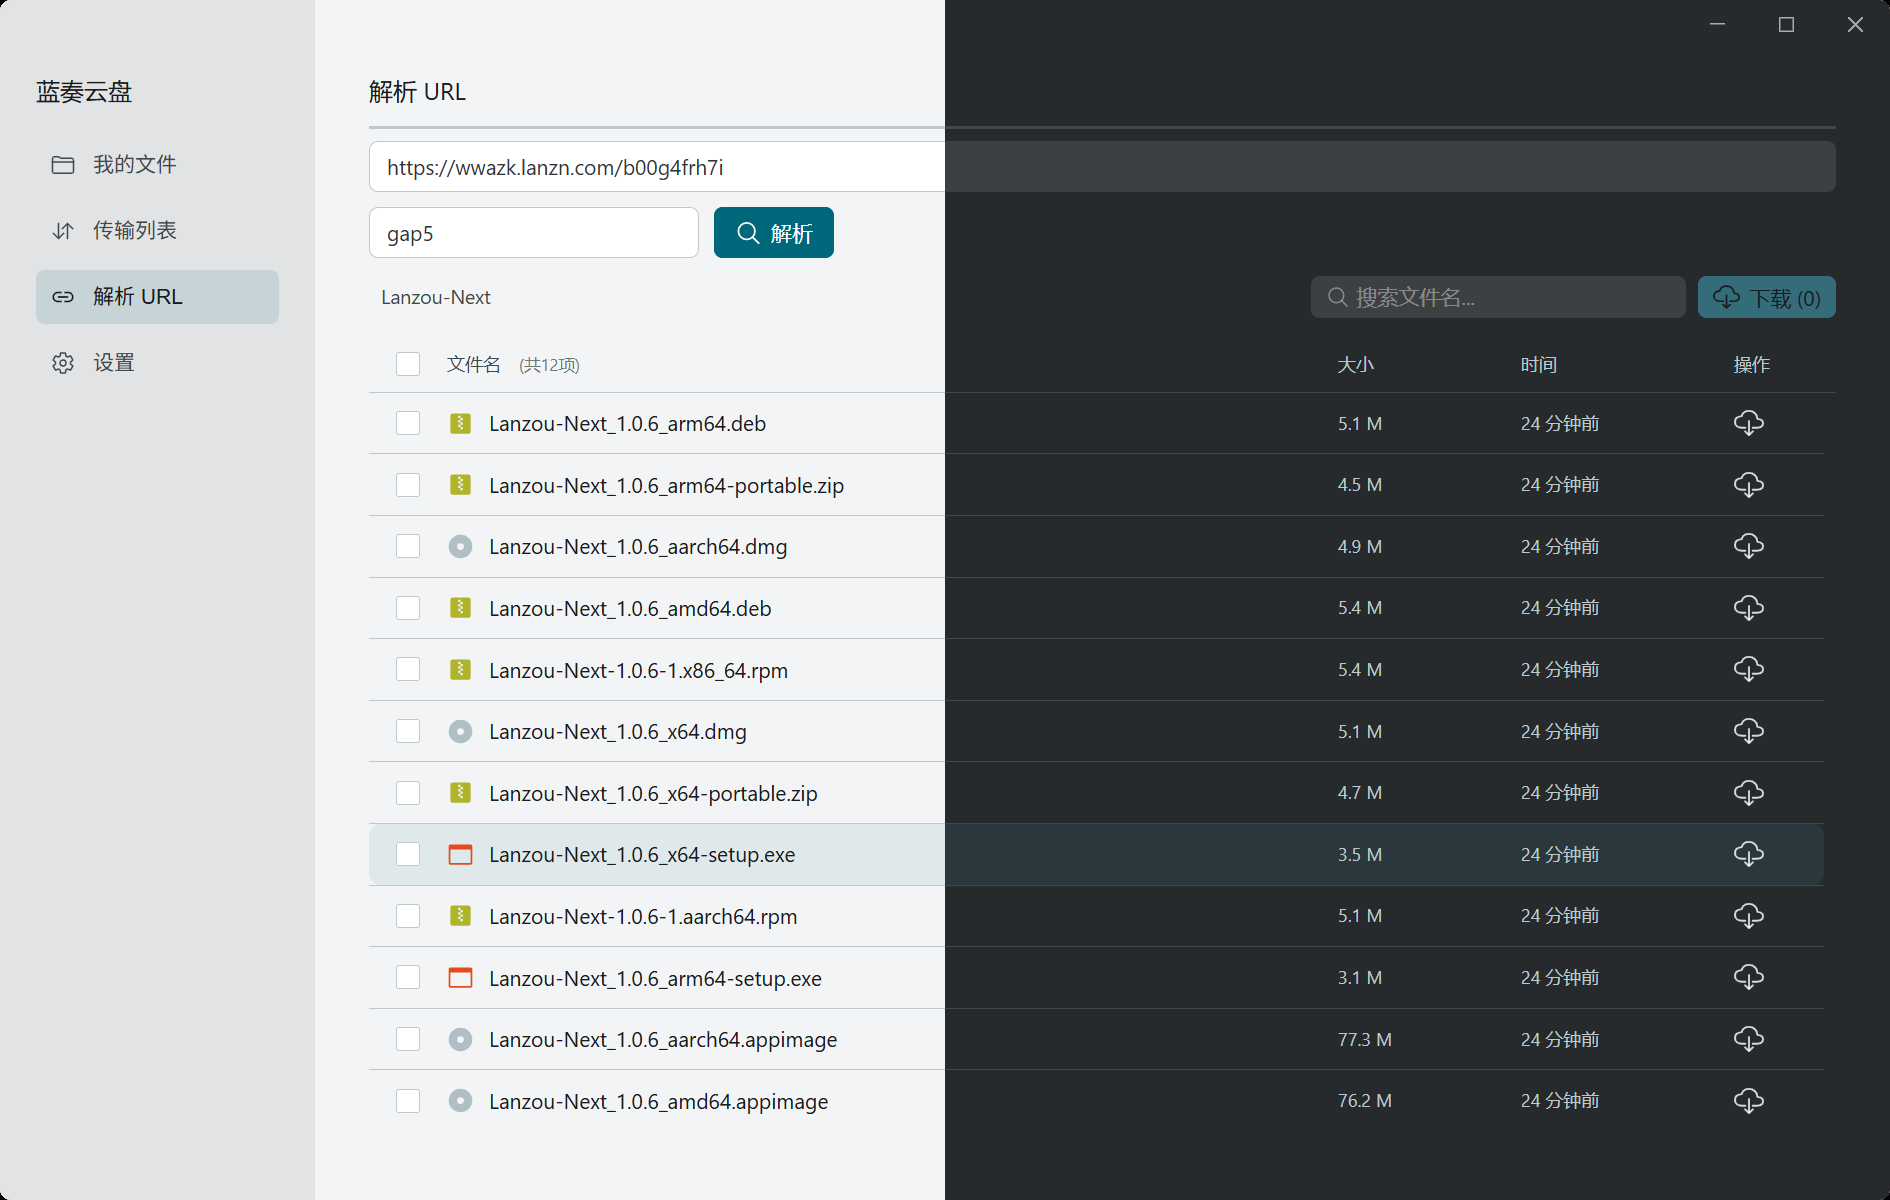
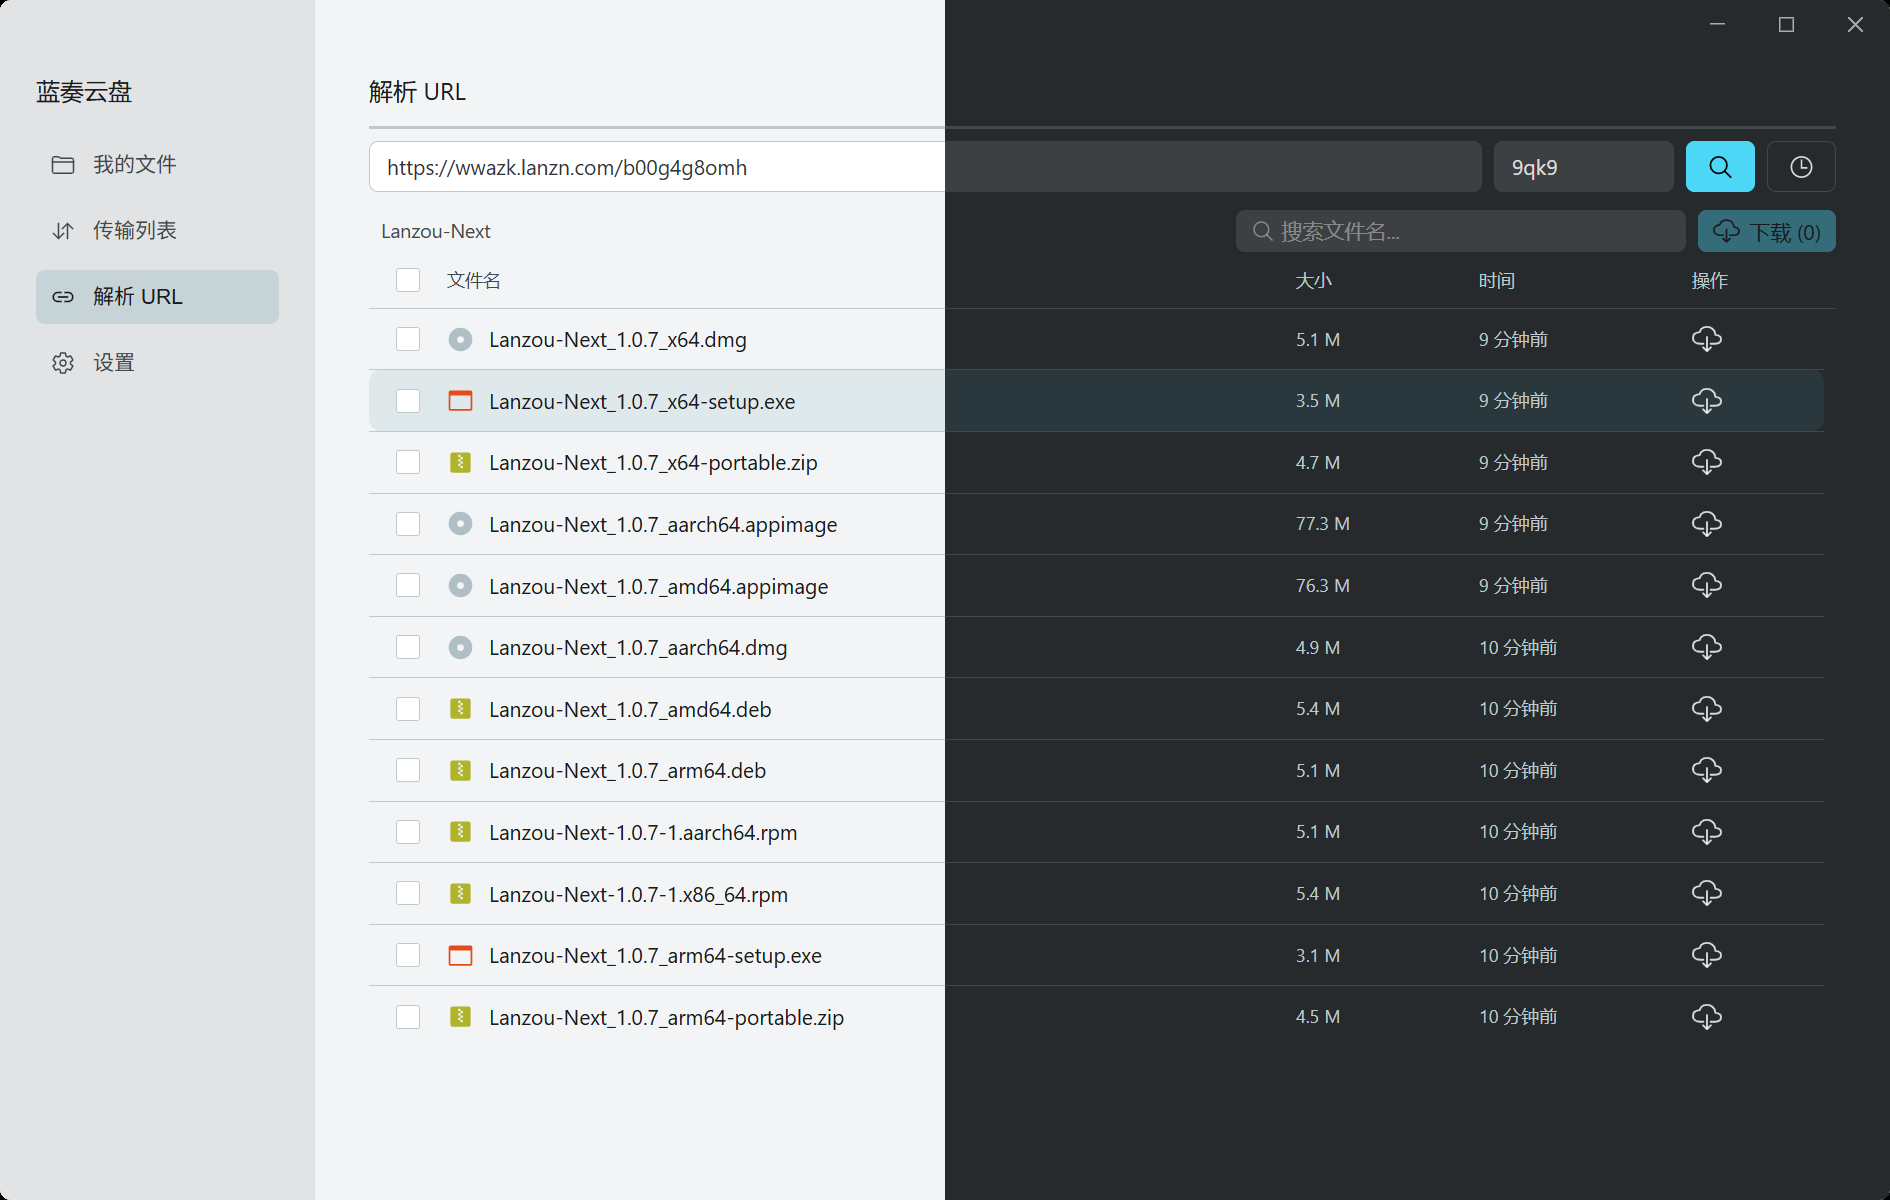
release: v1.0.8

diff --git a/vite.config.ts b/vite.config.ts
@@ -21,6 +21,7 @@ export default defineConfig(async () => ({
 
   clearScreen: false,
   build: {
+    chunkSizeWarningLimit: 800,
     rollupOptions: {
       output: {
         manualChunks: {

diff --git a/README.md b/README.md
@@ -20,11 +20,11 @@
 ## ✨ 功能特性
 
 - **文件管理**：面包屑导航、搜索、排序（名称/大小/时间/下载次数）、重命名、移动、删除、文件描述、设置访问密码
-- **上传**：拖拽上传、文件/文件夹批量上传、大文件自动分片上传、上传前超限预检、上传流量警戒、可配置并发数与分片大小
-- **下载**：文件/文件夹批量下载、断点续传、分片合并下载、可配置并发数与下载目录
-- **分享**：一键生成分享链接与二维码、解析分享链接、提取码自动识别与填充、下载分享文件
 - **文件夹操作**：跨目录模拟移动（递归搬迁）、设置访问密码
 - **回收站**：查看、批量恢复、批量彻底删除
+- **上传**：拖拽上传、文件/文件夹批量上传、大文件自动分片上传、上传前超限预检、上传流量警戒、可配置并发数与分片大小
+- **下载**：文件/文件夹批量下载、断点续传、分片合并下载、可配置并发数与下载目录
+- **分享**：查看分享链接与二维码、解析分享链接并查看和下载分享文件、检测剪贴板分享链接、保留解析记录
 - **账号管理**：账号密码登录、Cookie 自动持久化
 - **个性化**：预设配色方案、浅色/深色/跟随系统主题
 - **窗口与性能**：关闭时最小化到托盘、轻量模式（托盘时挂起渲染进程降低内存）

diff --git a/CHANGELOG.md b/CHANGELOG.md
@@ -1,5 +1,22 @@
 # 更新日志
 
+## 1.0.8
+
+### 新增
+
+- 添加剪贴板分享链接检测功能
+- 添加解析记录功能
+- 添加上传/下载/解析记录上限配置
+
+### 改进
+
+- 对话框改为从触发点弹出
+- 优化设置访问密码对话框
+
+### 修复
+
+- 修复恢复默认配置后日志级别变为 warn 但前端为 info 的问题
+
 ## 1.0.7
 
 ### 新增
